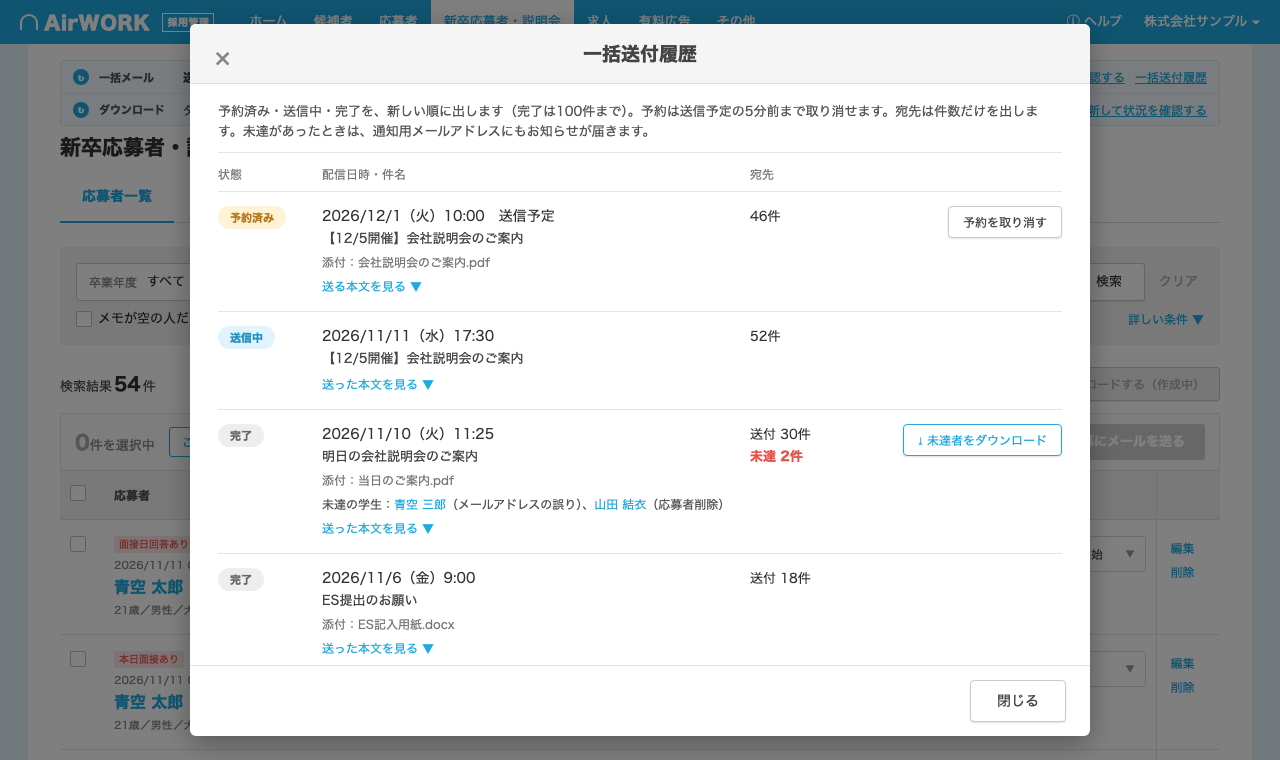
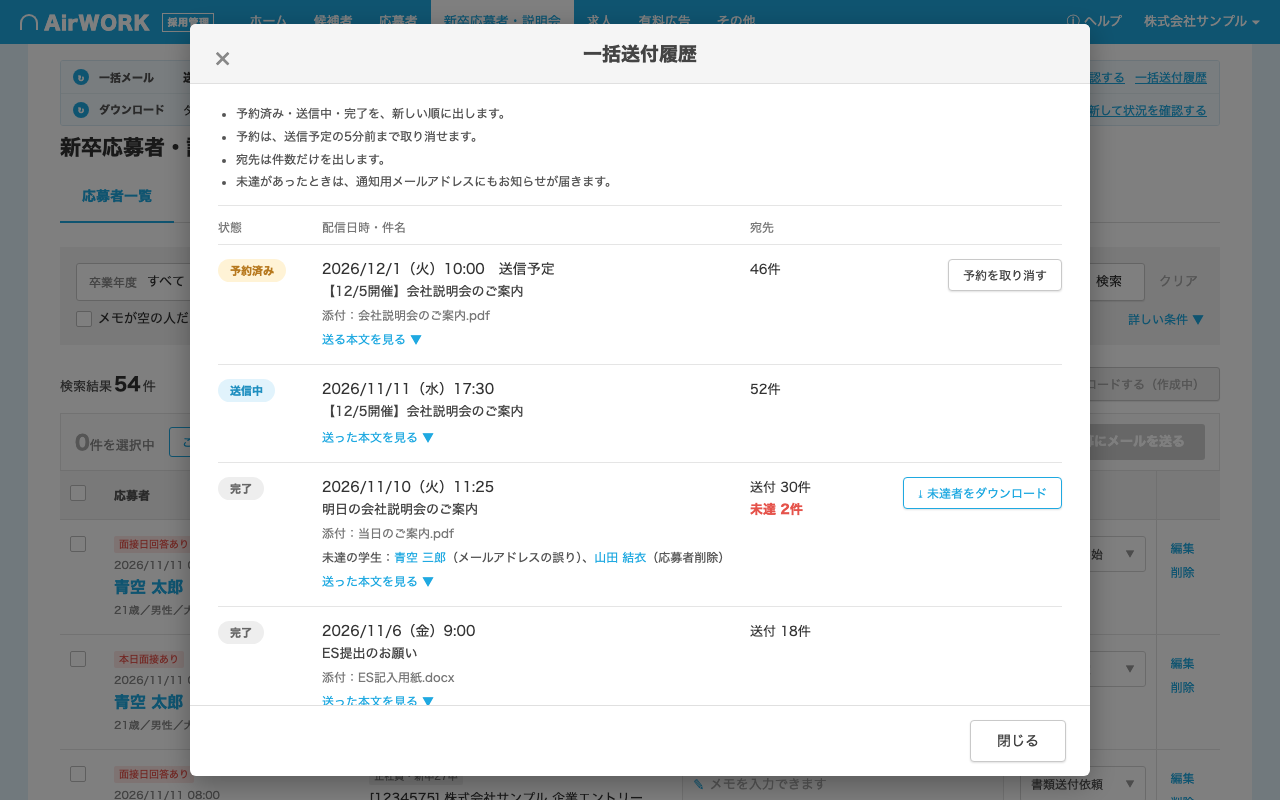
一括送付履歴の説明を箇条書きにする

diff --git a/app.js b/app.js
@@ -745,7 +745,12 @@
   const canCancel = (h) => h.at.getTime() - Date.now() > 5 * 60000;
   function renderHist() {
     const rows = [...HIST].sort((a, b) => b.at - a.at);
-    $('hBody').innerHTML = `<div class="mxlead">予約済み・送信中・完了を、新しい順に出します（完了は100件まで）。予約は送信予定の5分前まで取り消せます。宛先は件数だけを出します。未達があったときは、通知用メールアドレスにもお知らせが届きます。</div>
+    $('hBody').innerHTML = `<ul class="mxul">
+        <li>予約済み・送信中・完了を、新しい順に出します。</li>
+        <li>予約は、送信予定の5分前まで取り消せます。</li>
+        <li>宛先は件数だけを出します。</li>
+        <li>未達があったときは、通知用メールアドレスにもお知らせが届きます。</li>
+      </ul>
       <div class="hhead"><span>状態</span><span>配信日時・件名</span><span>宛先</span><span></span></div>
       ${rows.map((h) => {
         const nf = h.fail.length;

diff --git a/style.css b/style.css
@@ -297,6 +297,7 @@ td.cs { padding-left: 0; }
 .mxdone .s { font-size: 12px; color: #666; margin-top: 6px; }
 .mxkv { display: grid; grid-template-columns: 110px 1fr; row-gap: 12px; padding: 16px 0 10px; border-top: 1px solid #EEE; margin-top: 14px; }
 .mxkv .k { color: #777; font-size: 12px; padding-top: 1px; }
+.mxul { margin: 0; padding: 14px 0 12px 18px; border-bottom: 1px solid #E5E5E5; color: #555; font-size: 12px; line-height: 1.9; }
 .hhead, .hrow { display: grid; grid-template-columns: 92px 1fr 110px 190px; gap: 12px; align-items: start; }
 .hhead { padding: 12px 0 8px; font-size: 12px; color: #777; border-bottom: 1px solid #E5E5E5; }
 .hrow { padding: 14px 0; border-bottom: 1px solid #E5E5E5; }
